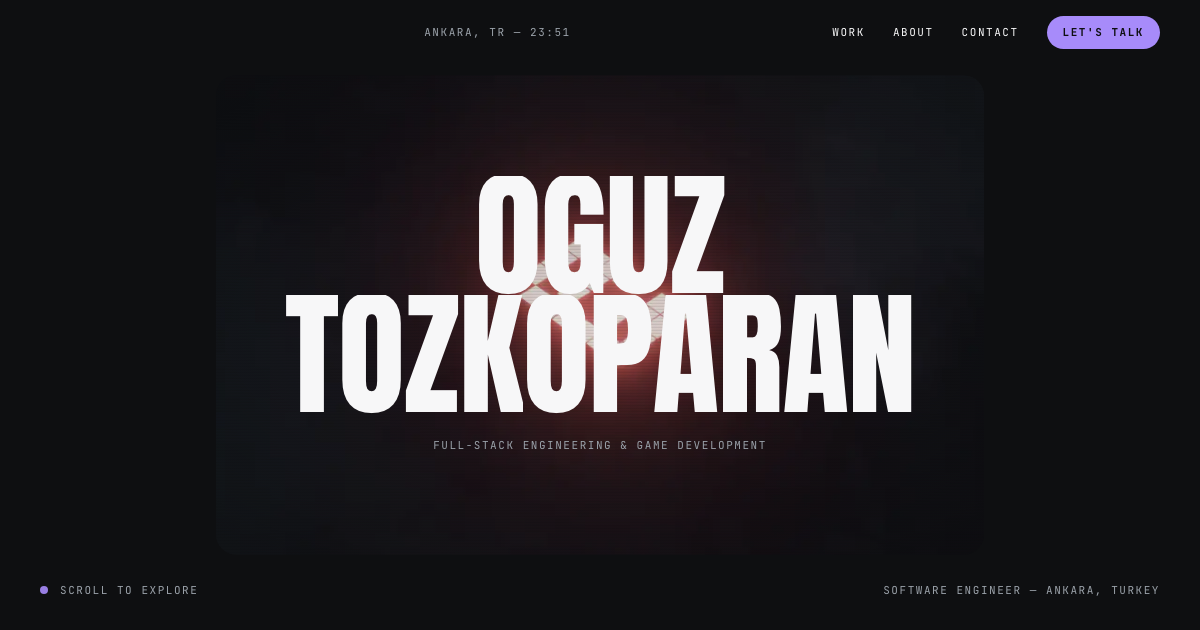
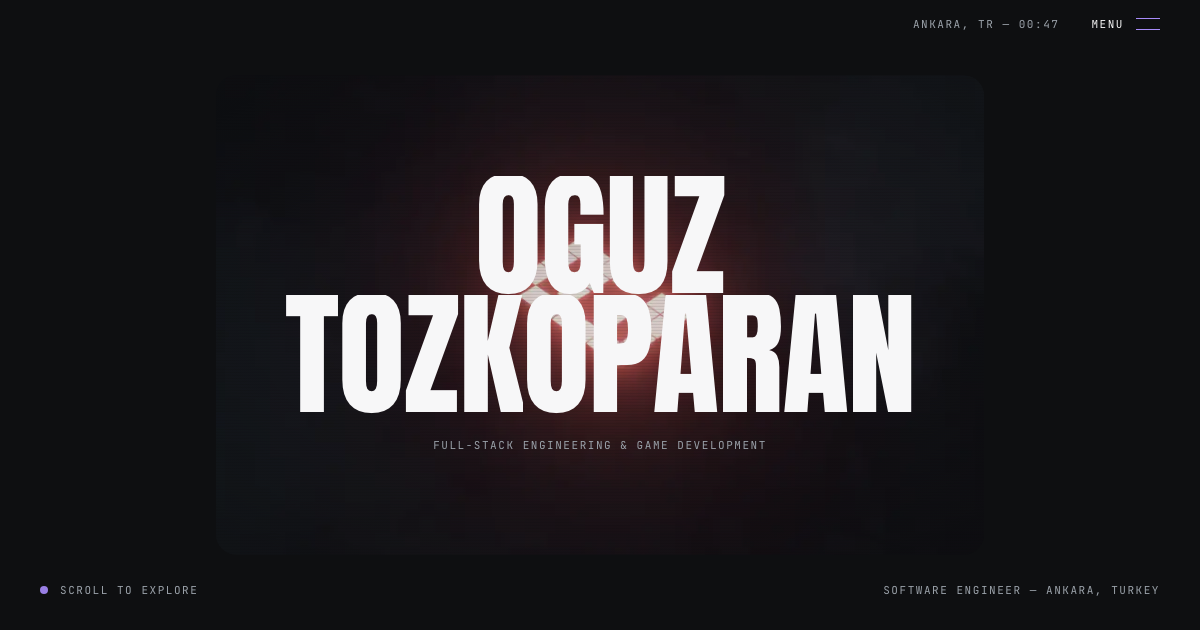
Award-style fullscreen menu navbar; full link audit
Top bar reduced to brand + Ankara clock + Menu toggle (hairline burger
morphs to X). Menu opens as a clip-path wipe overlay: giant staggered
display links with violet indices and hover arrows, bottom meta row
with DOS/games shortcuts, socials and email. Lenis pauses while open,
Escape closes. Link audit across all 10 pages: every internal route,
anchor and external URL resolves (LinkedIn 999 = standard bot block).

Changed region(s): [[0.74, 0.0, 0.9867, 0.0905], [0.3392, 0.0302, 0.4008, 0.0603], [0.6783, 0.0302, 0.7092, 0.0603]]

diff --git a/components/Header.tsx b/components/Header.tsx
@@ -1,17 +1,24 @@
 "use client";
 
 import { useEffect, useRef, useState } from "react";
-import { usePathname } from "next/navigation";
+import Link from "next/link";
+import { useLenis } from "lenis/react";
 import { useGSAP } from "@gsap/react";
 import { gsap, ScrollTrigger } from "@/lib/gsapConfig";
 import { onPreloaderDone } from "@/lib/preloader";
-import { site } from "@/lib/data";
+import { site, socials } from "@/lib/data";
 
-const NAV = [
-  { label: "Work", href: "#work", hash: true },
-  { label: "About", href: "#about", hash: true },
-  { label: "Blog", href: "/blog", hash: false },
-  { label: "Contact", href: "#contact", hash: true },
+const LINKS = [
+  { index: "01", label: "Home", href: "/" },
+  { index: "02", label: "Work", href: "/work" },
+  { index: "03", label: "About", href: "/about" },
+  { index: "04", label: "Blog", href: "/blog" },
+  { index: "05", label: "Contact", href: "/contact" },
+];
+
+const EXTRAS = [
+  { label: "DOS Terminal", href: "/dos" },
+  { label: "Mini Games", href: "/games" },
 ];
 
 function useAnkaraTime() {
@@ -32,13 +39,16 @@ function useAnkaraTime() {
 
 export default function Header() {
   const headerRef = useRef<HTMLElement>(null);
+  const overlayRef = useRef<HTMLDivElement>(null);
+  const tlRef = useRef<gsap.core.Timeline | null>(null);
+  const [open, setOpen] = useState(false);
   const time = useAnkaraTime();
-  const pathname = usePathname();
-  const prefix = pathname === "/" ? "" : "/";
+  const lenis = useLenis();
 
   useGSAP(() => {
     const header = headerRef.current;
-    if (!header) return;
+    const overlay = overlayRef.current;
+    if (!header || !overlay) return;
 
     gsap.set(header, { yPercent: -100, autoAlpha: 0 });
     onPreloaderDone().then(() => {
@@ -57,44 +67,173 @@ export default function Header() {
         header.classList.toggle("header-scrolled", self.isActive);
       },
     });
+
+    // fullscreen menu: top-down wipe, staggered giant links, meta fade
+    tlRef.current = gsap
+      .timeline({ paused: true })
+      .fromTo(
+        overlay,
+        { clipPath: "inset(0% 0% 100% 0%)" },
+        {
+          clipPath: "inset(0% 0% 0% 0%)",
+          duration: 0.7,
+          ease: "power4.inOut",
+        }
+      )
+      .fromTo(
+        "[data-menu-link]",
+        { yPercent: 110 },
+        { yPercent: 0, duration: 0.6, stagger: 0.06, ease: "power4.out" },
+        0.28
+      )
+      .fromTo(
+        "[data-menu-meta]",
+        { autoAlpha: 0, y: 24 },
+        { autoAlpha: 1, y: 0, duration: 0.5, stagger: 0.06, ease: "power3.out" },
+        0.5
+      );
+  }, []);
+
+  // play / reverse + scroll lock
+  useEffect(() => {
+    const tl = tlRef.current;
+    if (!tl) return;
+    if (open) {
+      tl.timeScale(1).play();
+      lenis?.stop();
+      document.documentElement.style.overflow = "hidden";
+    } else {
+      tl.timeScale(1.4).reverse();
+      lenis?.start();
+      document.documentElement.style.overflow = "";
+    }
+  }, [open, lenis]);
+
+  // close on Escape
+  useEffect(() => {
+    const onKey = (e: KeyboardEvent) => e.key === "Escape" && setOpen(false);
+    window.addEventListener("keydown", onKey);
+    return () => window.removeEventListener("keydown", onKey);
   }, []);
 
   return (
-    <header
-      ref={headerRef}
-      className="fixed inset-x-0 top-0 z-50 border-b border-transparent transition-colors duration-300 [&.header-scrolled]:border-line [&.header-scrolled]:bg-void/70 [&.header-scrolled]:backdrop-blur-md"
-    >
-      <div className="flex items-center justify-between px-6 py-4 md:px-10">
-        <a
-          id="site-brand"
-          href="#top"
-          className="display text-lg tracking-wide text-ink"
-        >
-          Oguz Tozkoparan<span className="text-acid">.</span>
-        </a>
+    <>
+      {/* fullscreen menu overlay */}
+      <div
+        ref={overlayRef}
+        className={`fixed inset-0 z-40 flex flex-col justify-between bg-void/95 px-6 pb-8 pt-28 backdrop-blur-md md:px-10 md:pt-32 [clip-path:inset(0%_0%_100%_0%)] ${
+          open ? "" : "pointer-events-none"
+        }`}
+        aria-hidden={!open}
+      >
+        <div
+          aria-hidden="true"
+          className="pointer-events-none absolute -right-40 top-0 h-[36rem] w-[36rem] rounded-full bg-acid/[0.06] blur-3xl"
+        />
 
-        <div className="label hidden text-dim md:block">
-          Ankara, TR — {time}
-        </div>
-
-        <nav className="flex items-center gap-5 md:gap-7">
-          {NAV.map((item) => (
-            <a
-              key={item.href}
-              href={item.hash ? `${prefix}${item.href}` : item.href}
-              className="link-sweep label hidden text-ink sm:inline-block"
-            >
-              {item.label}
-            </a>
+        <nav aria-label="Main">
+          {LINKS.map((link) => (
+            <div key={link.href} className="overflow-hidden">
+              <Link
+                href={link.href}
+                data-menu-link
+                onClick={() => setOpen(false)}
+                className="group flex items-baseline gap-4 py-1 md:gap-8"
+              >
+                <span className="label text-acid">{link.index}</span>
+                <span className="display text-[13vw] leading-[0.95] text-ink transition-colors duration-300 group-hover:text-acid sm:text-[9vw] lg:text-[6.5vw]">
+                  {link.label}
+                </span>
+                <span
+                  aria-hidden="true"
+                  className="display hidden text-3xl text-acid opacity-0 transition-all duration-300 group-hover:translate-x-2 group-hover:opacity-100 md:block"
+                >
+                  →
+                </span>
+              </Link>
+            </div>
           ))}
-          <a
-            href={`mailto:${site.email}`}
-            className="label rounded-full bg-acid px-4 py-2 text-base font-bold text-[#0e0f11] transition-transform duration-200 hover:scale-105"
-          >
-            Let&apos;s talk
-          </a>
         </nav>
+
+        <div className="flex flex-col gap-6 border-t border-line pt-6 md:flex-row md:items-end md:justify-between">
+          <div data-menu-meta className="flex flex-wrap gap-x-6 gap-y-2">
+            {EXTRAS.map((extra) => (
+              <Link
+                key={extra.href}
+                href={extra.href}
+                onClick={() => setOpen(false)}
+                className="link-sweep label text-dim"
+              >
+                {extra.label} ↗
+              </Link>
+            ))}
+          </div>
+          <div data-menu-meta className="flex flex-wrap gap-x-6 gap-y-2">
+            {socials.map((social) => (
+              <a
+                key={social.href}
+                href={social.href}
+                target="_blank"
+                rel="noopener noreferrer"
+                className="link-sweep label text-dim"
+              >
+                {social.label}
+              </a>
+            ))}
+          </div>
+          <a
+            data-menu-meta
+            href={`mailto:${site.email}`}
+            className="link-sweep label w-fit text-ink"
+          >
+            {site.email}
+          </a>
+        </div>
       </div>
-    </header>
+
+      {/* top bar */}
+      <header
+        ref={headerRef}
+        className="fixed inset-x-0 top-0 z-50 border-b border-transparent transition-colors duration-300 [&.header-scrolled]:border-line [&.header-scrolled]:bg-void/70 [&.header-scrolled]:backdrop-blur-md"
+      >
+        <div className="flex items-center justify-between px-6 py-4 md:px-10">
+          <Link
+            id="site-brand"
+            href="/"
+            onClick={() => setOpen(false)}
+            className="display text-lg tracking-wide text-ink"
+          >
+            Oguz Tozkoparan<span className="text-acid">.</span>
+          </Link>
+
+          <div className="flex items-center gap-6 md:gap-8">
+            <span className="label hidden text-dim sm:block">
+              Ankara, TR — {time}
+            </span>
+            <button
+              type="button"
+              onClick={() => setOpen((v) => !v)}
+              aria-expanded={open}
+              aria-label={open ? "Close menu" : "Open menu"}
+              className="group flex items-center gap-3"
+            >
+              <span className="label text-ink">{open ? "Close" : "Menu"}</span>
+              <span className="relative block h-3 w-6">
+                <span
+                  className={`absolute left-0 top-0 h-px w-full bg-acid transition-transform duration-300 ${
+                    open ? "translate-y-[5.5px] rotate-45" : "group-hover:w-4/5"
+                  }`}
+                />
+                <span
+                  className={`absolute bottom-0 left-0 h-px w-full bg-acid transition-transform duration-300 ${
+                    open ? "-translate-y-[5.5px] -rotate-45" : ""
+                  }`}
+                />
+              </span>
+            </button>
+          </div>
+        </div>
+      </header>
+    </>
   );
 }
